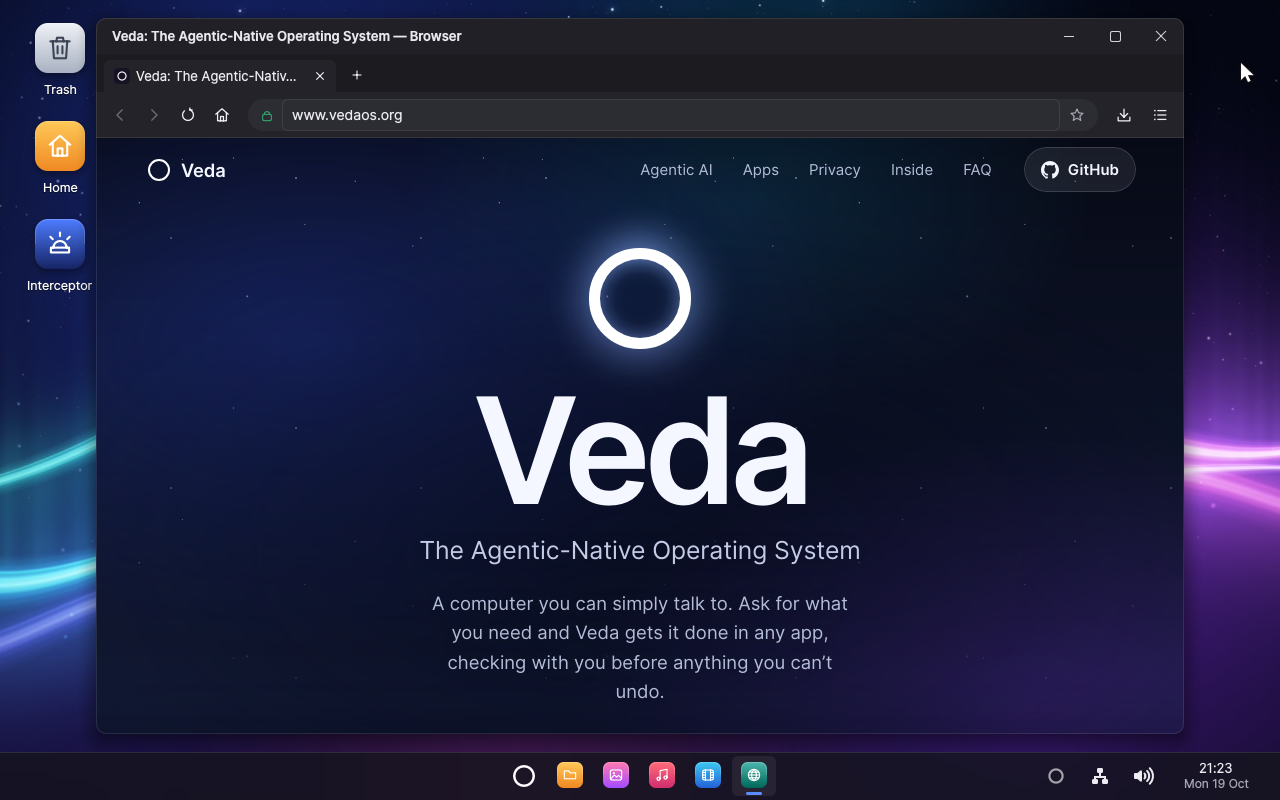
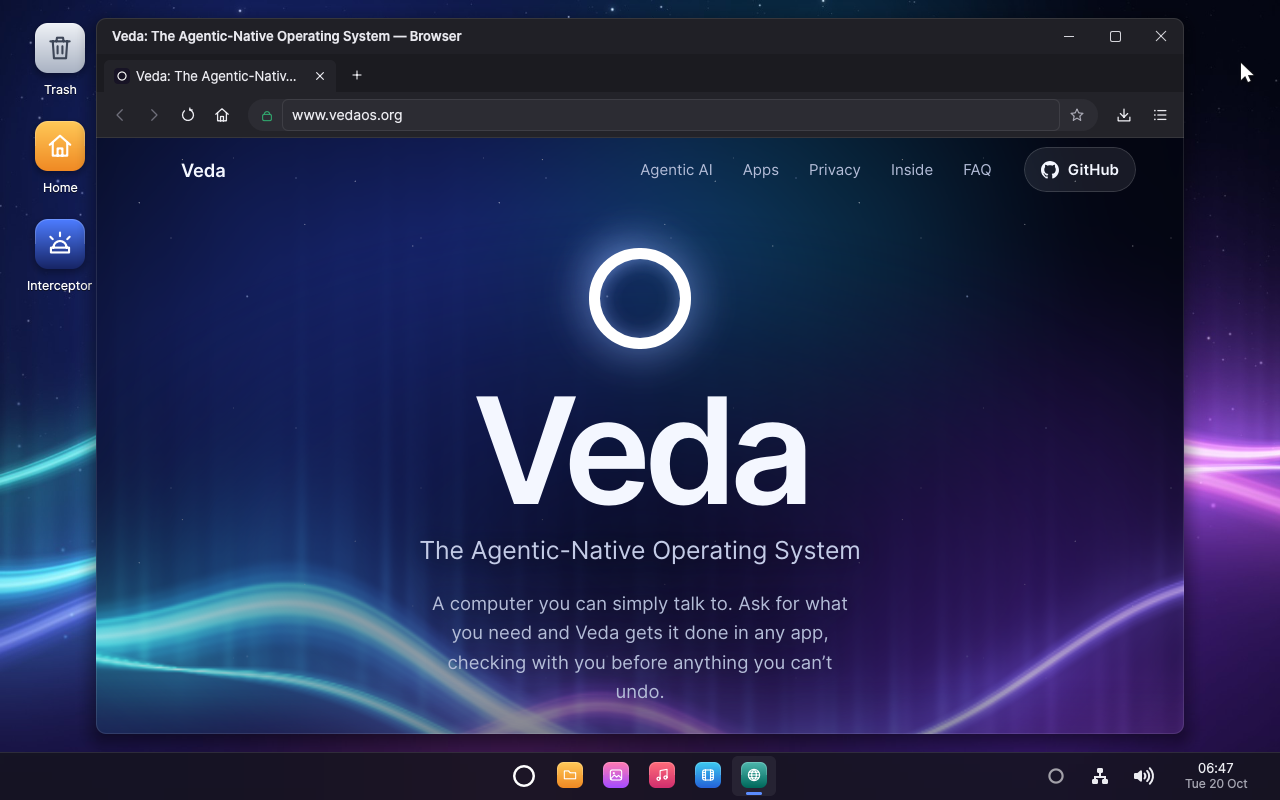
docs(readme): show the browser with vedaos.org's aurora flowing

Changed region(s): [[0.0625, 0.4375, 0.9375, 0.9375], [0.1875, 0.1562, 0.6562, 0.4375], [0.9375, 0.9375, 0.9688, 1.0]]

diff --git a/README.md b/README.md
@@ -45,7 +45,7 @@ and the applications.
     <td colspan="2"><p align="center"><b>Desktop</b></p><img src="documentation/images/desktop.png" alt="The Veda desktop, with the agent's window open and listening"></td>
   </tr>
   <tr>
-    <td width="50%"><p align="center"><b>Browser</b></p><img src="documentation/images/browser.png" alt="The Browser showing Veda's website, www.vedaos.org: the ring glowing over a starry sky, the name and what Veda is"></td>
+    <td width="50%"><p align="center"><b>Browser</b></p><img src="documentation/images/browser.png" alt="The Browser showing Veda's website, www.vedaos.org: the ring glowing over its starry sky, an aurora flowing below the name and what Veda is"></td>
     <td width="50%"><p align="center"><b>Text Editor</b></p><img src="documentation/images/editor.png" alt="The Text Editor showing a Rust program with syntax highlighting"></td>
   </tr>
   <tr>
